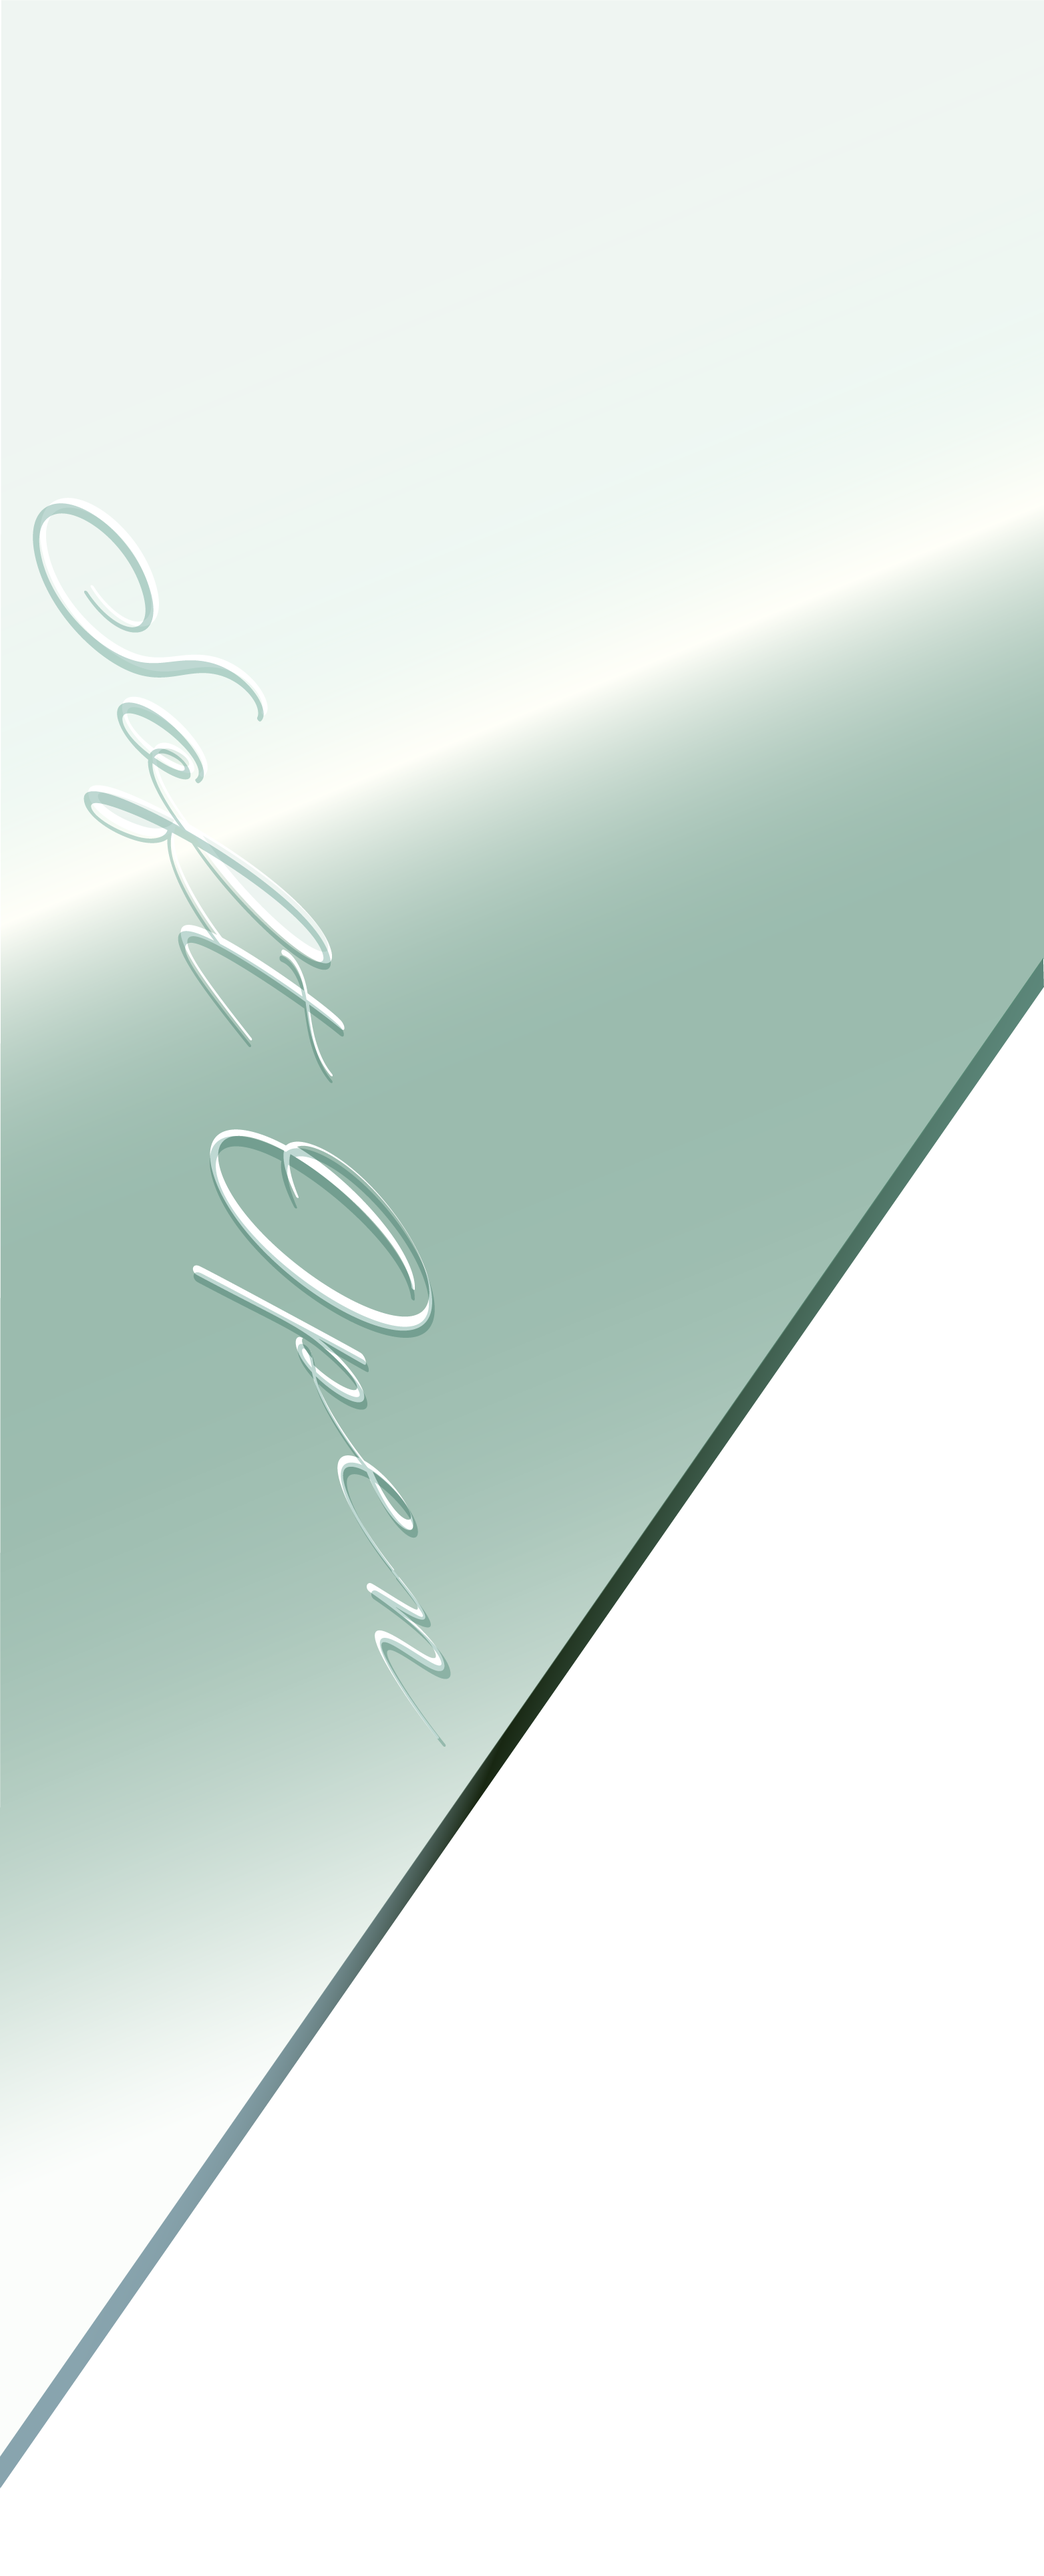
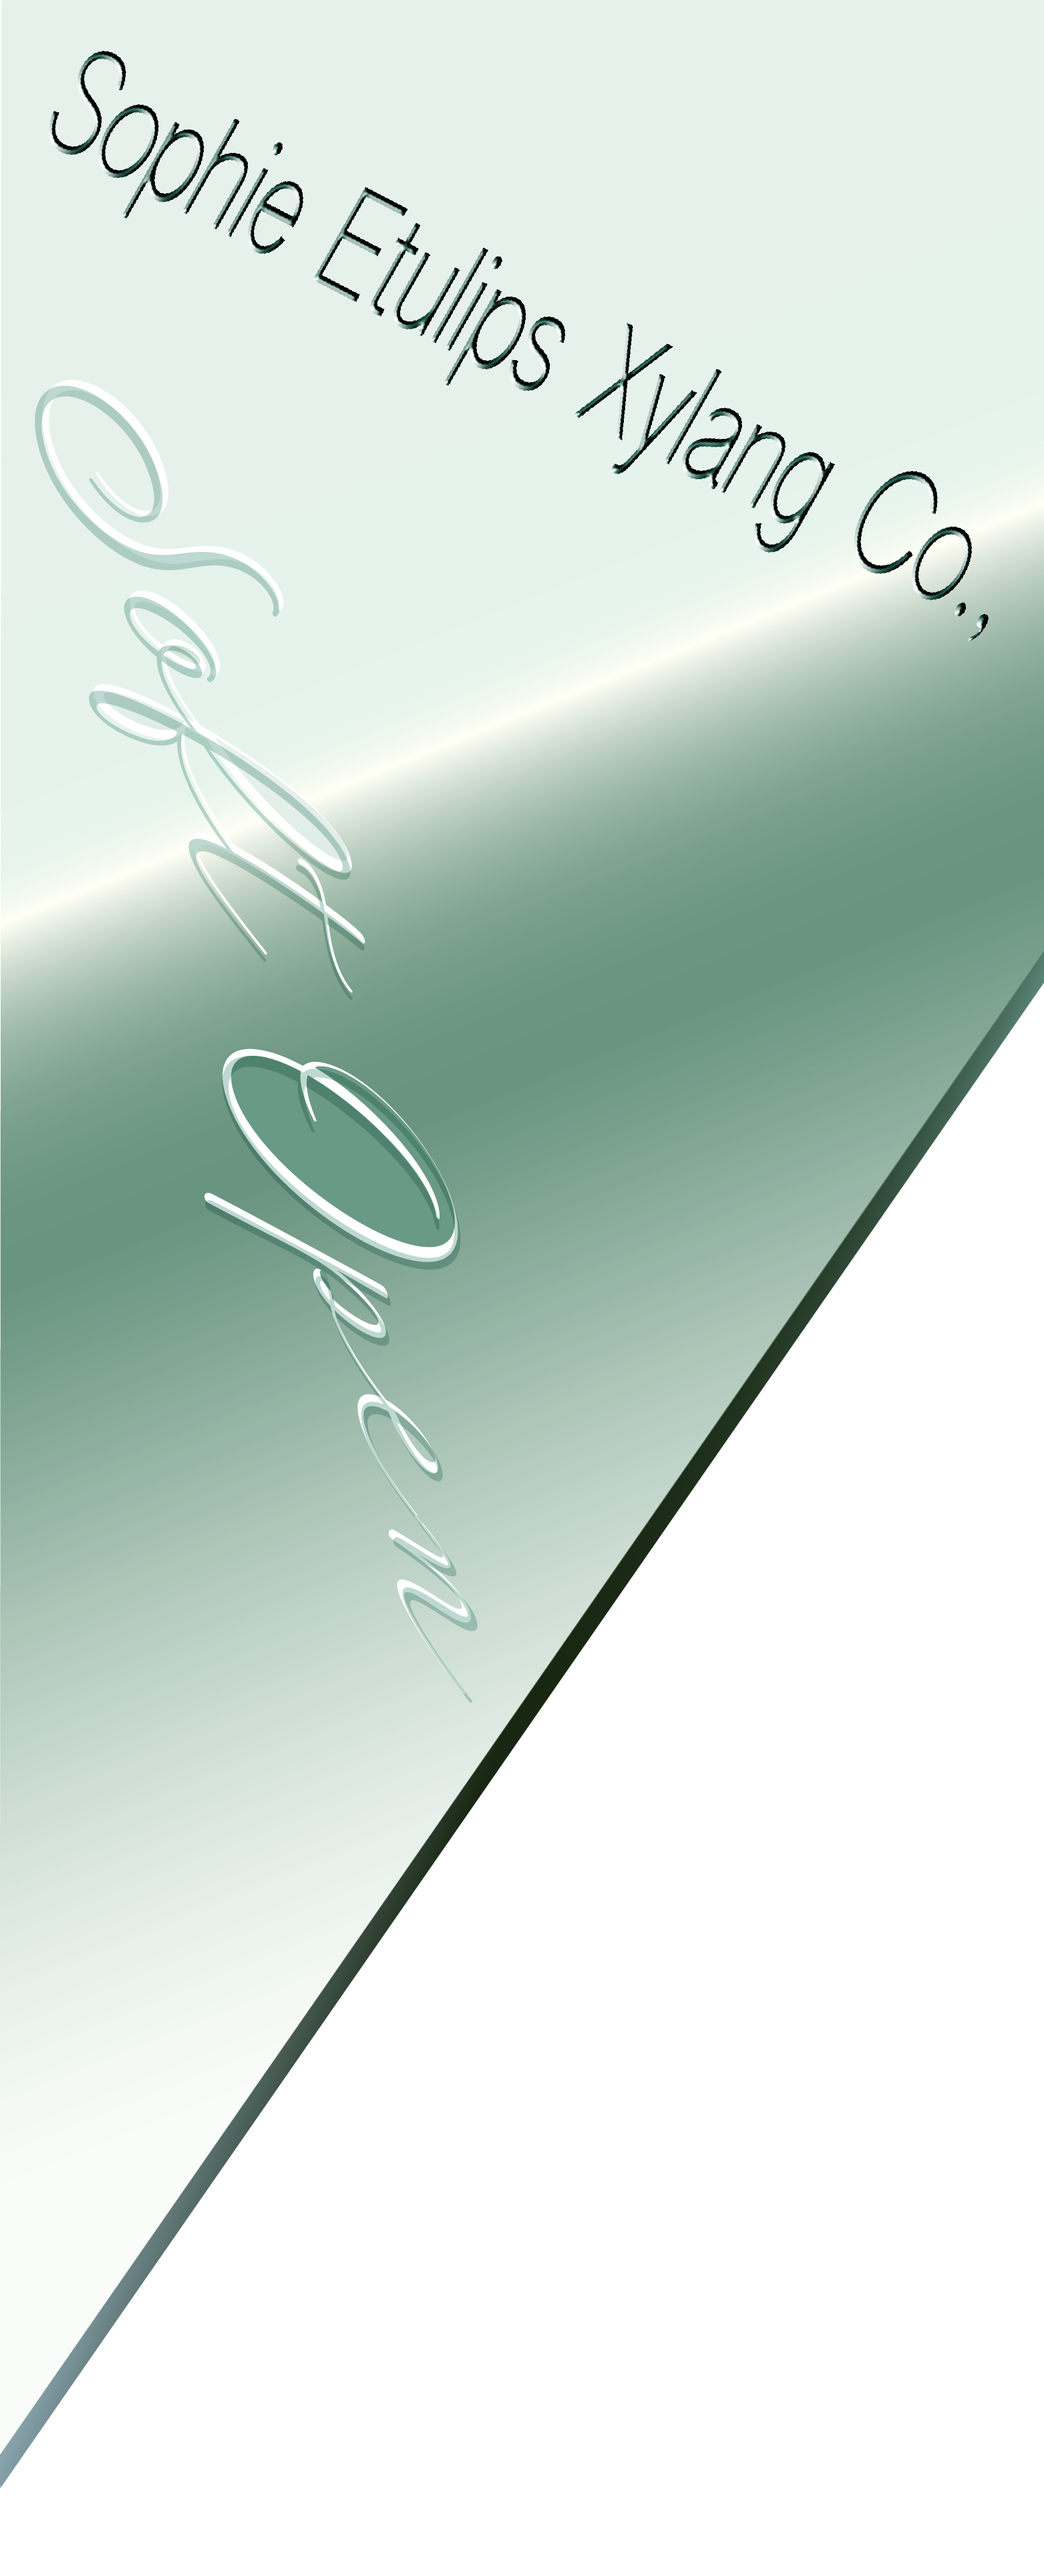
HotFix

diff --git a/static/css/style.css b/static/css/style.css
@@ -44,8 +44,8 @@ html, body {
 	height: 100vh;
 	overflow: hiden;
 	z-index: -1;
-    background: linear-gradient(78deg, rgb(3, 0, 23), rgb(67, 100, 182), rgb(137, 196, 160), rgb(255, 213, 247), #ffffff);
-	background-size: 200% 200%;
+    background: linear-gradient(78deg, rgb(26, 6, 0), rgb(9, 50, 154), rgb(255, 213, 247), rgb(253, 255, 206), #ffffff);
+	background-size: 400% 400%;
     -webkit-animation: gradient 10s ease infinite;
     -moz-animation: gradient 10s ease infinite;
     animation: gradient 10s ease infinite;
@@ -62,7 +62,7 @@ html, body {
 
 .cardContainer img {
 	height: 100%;
-	object-fit: cover;
+	object-fit: fill;
 }
 
 .titleContainer {
@@ -76,7 +76,7 @@ html, body {
 .titleContainer img {
 	width: 100%;
 	max-width: 70vw;
-	object-fit: contain;
+	object-fit: fill;
 }
 
 .mirrorContainer {
@@ -94,7 +94,7 @@ html, body {
 
 .mirrorContainer img {
 	width: 100%;
-	object-fit: cover;
+	object-fit: fill;
 }
 
 .textContainer {
@@ -121,8 +121,8 @@ html, body {
 .textContainer div img {
 	width: 100%;
 	height: 100%;
-	object-fit: cover;
-	max-width: 1200px;
+	object-fit: contain;
+	max-width: 600px;
 	mix-blend-mode: difference;
 }
 
@@ -294,7 +294,7 @@ and (max-width : 320px) {
 .titleContainer img {
 	width: 100%;
 	max-width: 80vw;
-	object-fit: contain;
+	object-fit: fill;
 }
 }
 
@@ -305,7 +305,7 @@ and (max-width : 320px) {
 		max-width: 60vw;
 		margin-top: 18px;
 		transform: rotate(10deg);
-		object-fit: contain;
+		object-fit: fill;
 	}
 
 	.cursor {
@@ -323,7 +323,7 @@ and (max-width : 320px) {
 
 	.cardContainer img {
 		height: 100vh;
-		object-fit: contain;
+		object-fit: fill;
 	}
 
 	.invitationBtn {
@@ -368,7 +368,7 @@ and (max-width : 320px) {
 	.textContainer div img {
 		width: 100%;
 		height: 100%;
-		object-fit: cover;
+		object-fit: contain;
 		max-width: 500px;
 		mix-blend-mode: difference;
 	}
@@ -394,13 +394,6 @@ and (max-width : 320px) {
 		margin-bottom: 20px;
 	}
 
-	.textContainer div img {
-		width: 100%;
-		height: 100%;
-		object-fit: cover;
-		max-width: 600px;
-		mix-blend-mode: difference;
-	}
 
 }
 
@@ -416,7 +409,7 @@ and (max-width : 320px) {
 		width: 100%;
 		max-width: 90vw;
 		transform: rotate(15deg);
-		object-fit: contain;
+		object-fit: fill;
 	}
 
 	.cursor {
@@ -435,7 +428,7 @@ and (max-width : 320px) {
 	.cardContainer img {
 		height: 100vh;
 		width: 100vw;
-		object-fit: cover;
+		object-fit: fill;
 	}
 
 	.invitationBtn {
@@ -480,7 +473,7 @@ and (max-width : 320px) {
 	.textContainer div img {
 		width: 100%;
 		height: 100%;
-		object-fit: cover;
+		object-fit: fill;
 		max-width: 500px;
 		mix-blend-mode: difference;
 	}
@@ -509,7 +502,7 @@ and (max-width : 320px) {
 	.textContainer div img {
 		width: 100%;
 		height: 100%;
-		object-fit: cover;
+		object-fit: fill;
 		max-width: 600px;
 		mix-blend-mode: difference;
 	}
@@ -566,7 +559,7 @@ and (max-width : 320px) {
 	.textContainer div img {
 		width: 100%;
 		height: 100%;
-		object-fit: cover;
+		object-fit: fill;
 		max-width: 600px;
 	}
 
@@ -582,8 +575,8 @@ and (max-width : 320px) {
 	.cardContainer img {
 		height: 100vh;
 		width: 100vw;
-		-o-object-fit: contain;
-		object-fit: cover;
+		-o-object-fit: fill;
+		object-fit: fill;
 	}
 }
 
@@ -629,8 +622,8 @@ and (max-width : 320px) {
 	.titleContainer img {
 		width: 100%;
 		max-width: 100vw;
-		-o-object-fit: contain;
-		object-fit: contain;
+		-o-object-fit: fill;
+		object-fit: fill;
 		transform: rotate(15deg);
 		margin-top: 20px;
 	}
@@ -657,8 +650,8 @@ and (max-width : 320px) {
 	.cardContainer img {
 		height: 100vh;
 		width: 100vw;
-		-o-object-fit: contain;
-		object-fit: cover;
+		-o-object-fit: fill;
+		object-fit: fill;
 	}
 
 	.invitationBtn {
@@ -726,8 +719,8 @@ and (max-width : 320px) {
 	.textContainer div img {
 		width: 90%;
 		height: 100%;
-		-o-object-fit: cover;
-		object-fit: cover;
+		-o-object-fit: fill;
+		object-fit: fill;
 		max-width: 370px;
 		mix-blend-mode: difference;
 	}
